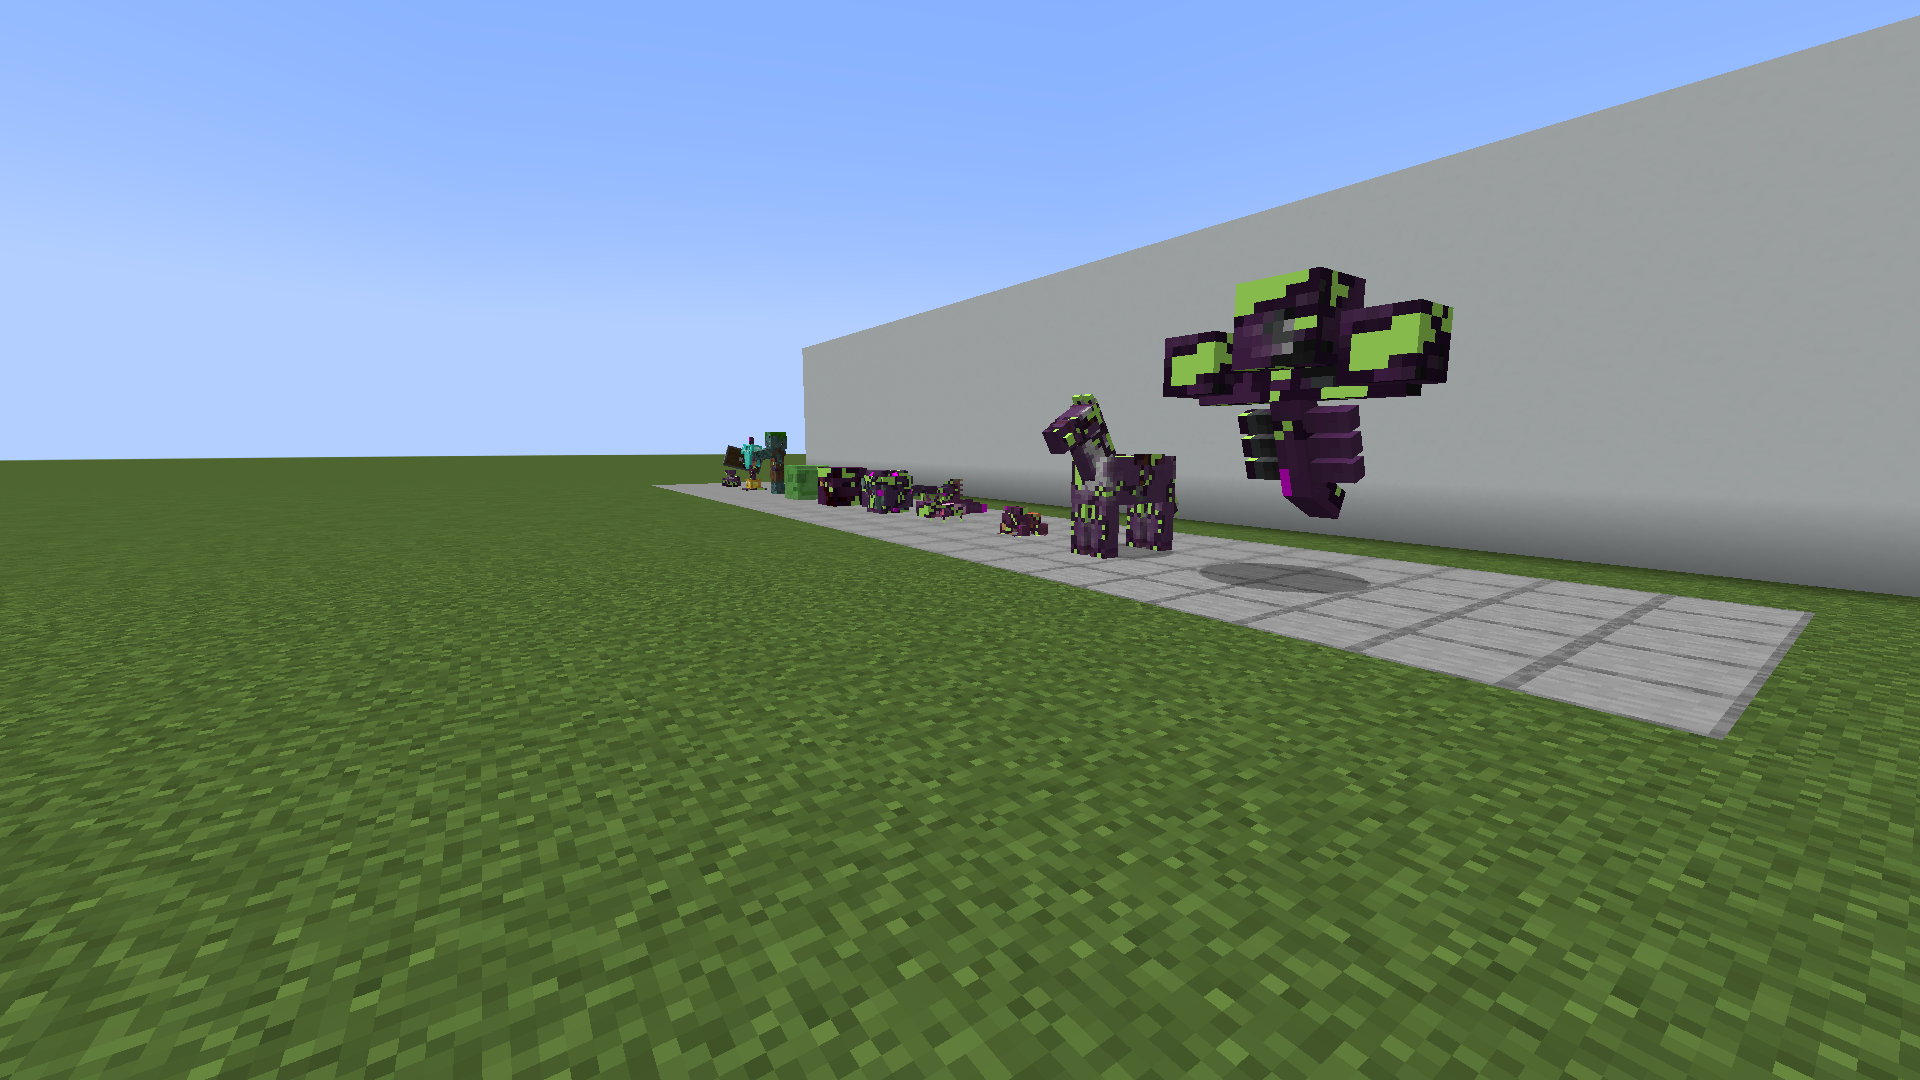
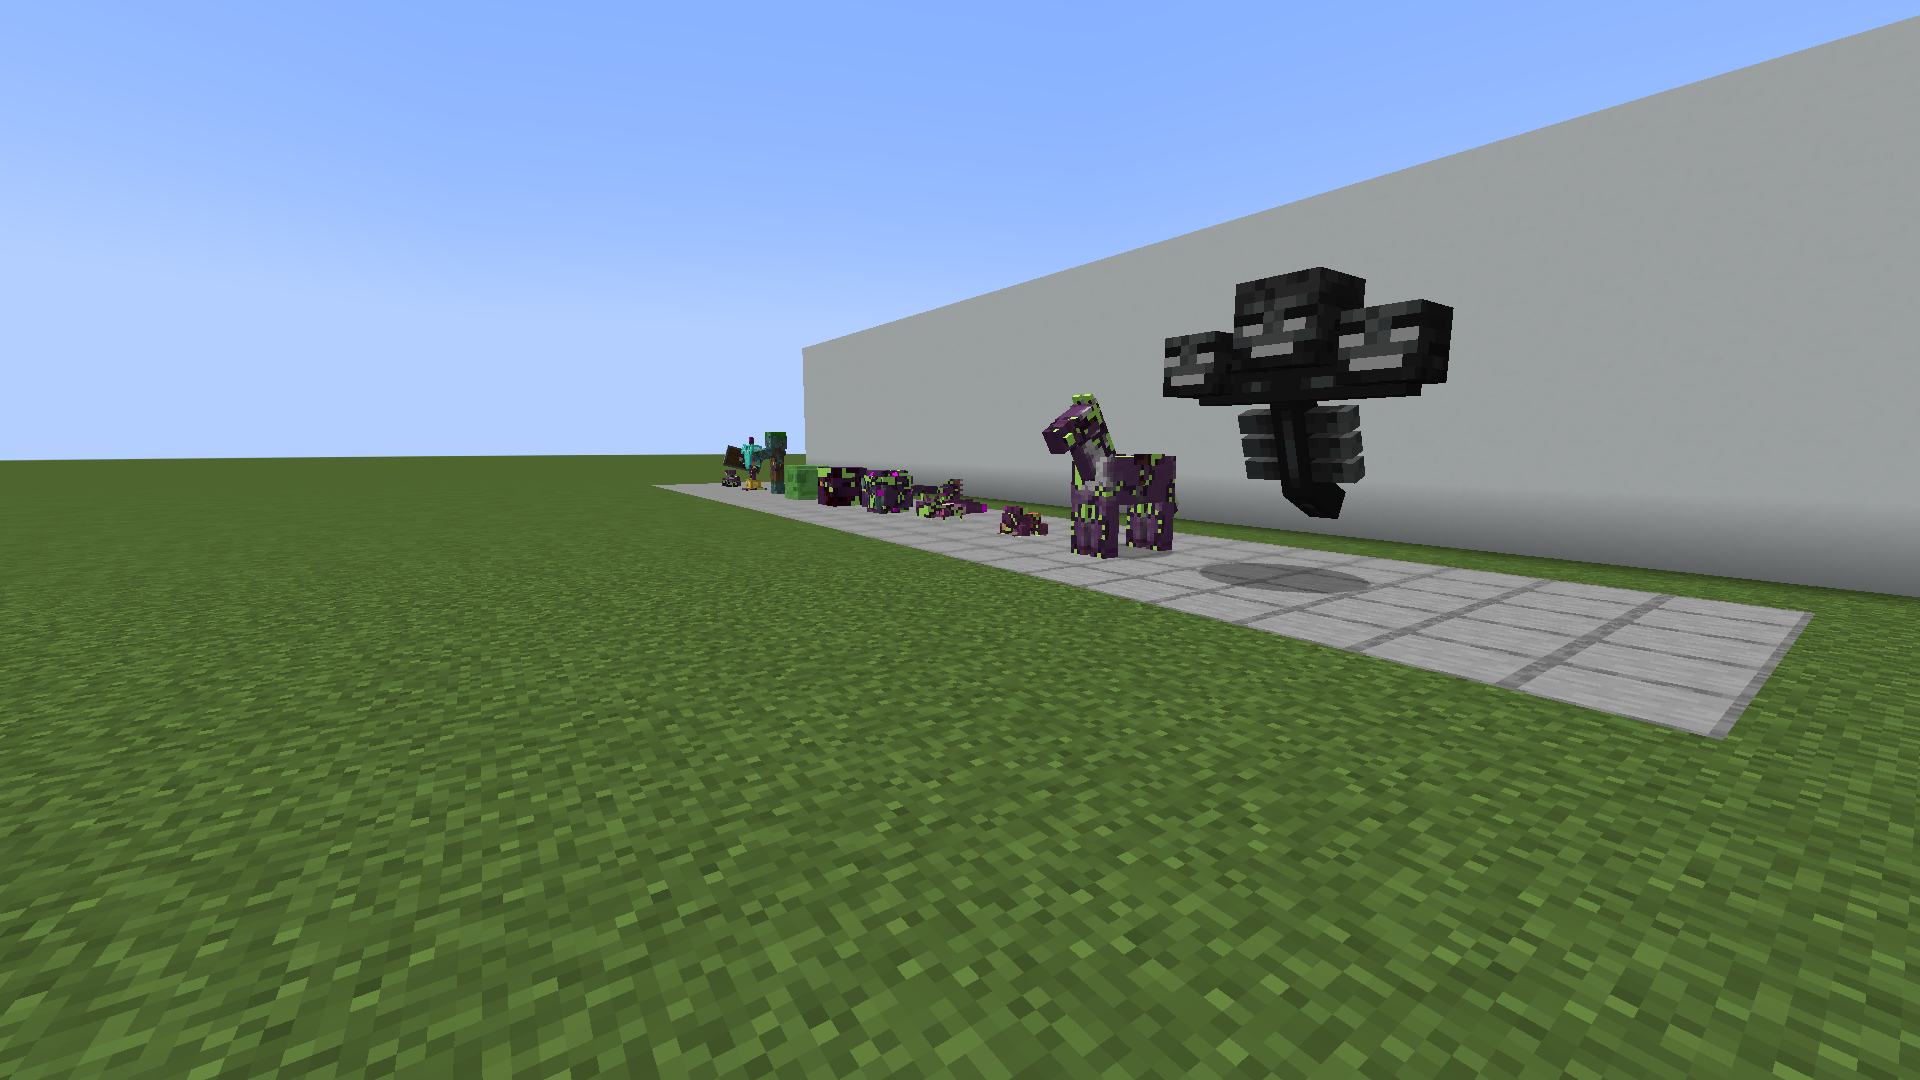
P3.3: Re-accept stages_modded references with the wither immune

Changed region(s): [[0.5938, 0.2444, 0.7812, 0.4889]]

diff --git a/.agents/skills/visual-checks/SKILL.md b/.agents/skills/visual-checks/SKILL.md
@@ -37,7 +37,7 @@ Visual evidence is only valid from a GPU run. The log must name the RTX 4070 (he
 - Ticks stay frozen for the whole scene, so mobs, fluids and animations do not move between shots.
 - `{"corrupt": <entity selector>, "level": 0-100}` (P2.2) sets the Strain level of every living entity the selector matches through the server API (`Corruption.set`, staged by the run's common config), players included; it fails when nothing matches. Tag spawned mobs (`Tags:["stage_2"]` in `nbt`) and select them by tag.
 - A shot's optional `view` sets the camera type: `first_person` (default), `third_person_back` or `third_person_front`, e.g. to see the player. The scene's player is a spectator unless setup changes it (`gamemode creative @a`; a spectator renders only its head); a non-spectator falls, so its camera positions must stand on the ground (y = -60).
-- `corruption/stages_vanilla` (shots `stage_0`..`stage_3`, `stage_3_oblique`, `player`) and `corruption/stages_modded` (same stage shots plus `ender_dragon`) are the host overlay scenes (P2.2): one lineup per stage, 30 blocks apart on z, levels 0, 20, 50, 90. Players keep ticking under `/tick freeze`, so while shooting the harness pins the local player's `tickCount` to 0; its idle animation (arm bob) is then the same every run.
+- `corruption/stages_vanilla` (shots `stage_0`..`stage_3`, `stage_3_oblique`, `player`) and `corruption/stages_modded` (same stage shots plus `ender_dragon`) are the host overlay scenes (P2.2). In `stages_modded` the wither and ender dragon are immune bosses (P3.3) and stay clean at every stage; references from P3.3 on show them without the overlay. Both scenes use one lineup per stage, 30 blocks apart on z, levels 0, 20, 50, 90. Players keep ticking under `/tick freeze`, so while shooting the harness pins the local player's `tickCount` to 0; its idle animation (arm bob) is then the same every run.
 
 **Scene discipline**, so images are comparable (the harness enforces the first four and the default 1920x1080; scenes add `NoAI`):
 - Superflat world, fixed seed.

diff --git a/docs/ARCHITECTURE.md b/docs/ARCHITECTURE.md
@@ -76,7 +76,7 @@ Internal Java system names and public API types may keep the generic word "corru
 - Stage drives the look: `textures/entity/host/stage_1..3.png` (stages above 3, from extra thresholds, use stage 3), plus a full-bright `veins_glow.png` pass from stage 3. The client reads only the synced `stage`; it never restages. All four textures are placeholders (CONTENT-PROVENANCE).
 - Client config `hosts.overlayIntensity` (0–1, default 1) is the overlay's vertex alpha; 0 turns it off. Presentation only.
 - Limits: layers that draw their own model (armour, slime gel, the drowned's outer layer, sheep wool, saddles drawn by other layers) are not overlaid, so hosts under them look muted (roadmap item P2.4); renderers that are not `LivingEntityRenderer`s get nothing. Stage particles (DESIGN) are not built yet.
-- Harness scenes `corruption/stages_vanilla` and `corruption/stages_modded` (visual-checks) show stages 0–3 on a vanilla lineup (baby, armoured, player in third person) and on the Mekanism robit with non-standard vanilla renderers (armour stand, slimes, guardian, wither; the ender dragon as a renderer without the layer).
+- Harness scenes `corruption/stages_vanilla` and `corruption/stages_modded` (visual-checks) show stages 0–3 on a vanilla lineup (baby, armoured, player in third person) and on the Mekanism robit with non-standard vanilla renderers (armour stand, slimes, guardian). The wither and the ender dragon are immune bosses (`#c:bosses` in `#remission:immune`, P3.3): the scene still corrupts them, but they stay clean beside the hosts, so the `ender_dragon` shot (a renderer without the layer) and the wither now show an immune boss rendering normally.
 
 ### Research (phase 6, built in P6.1)
 
